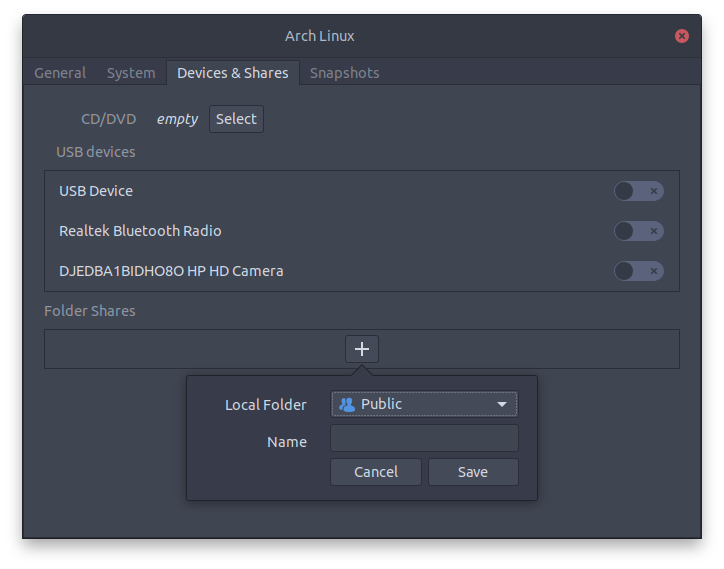
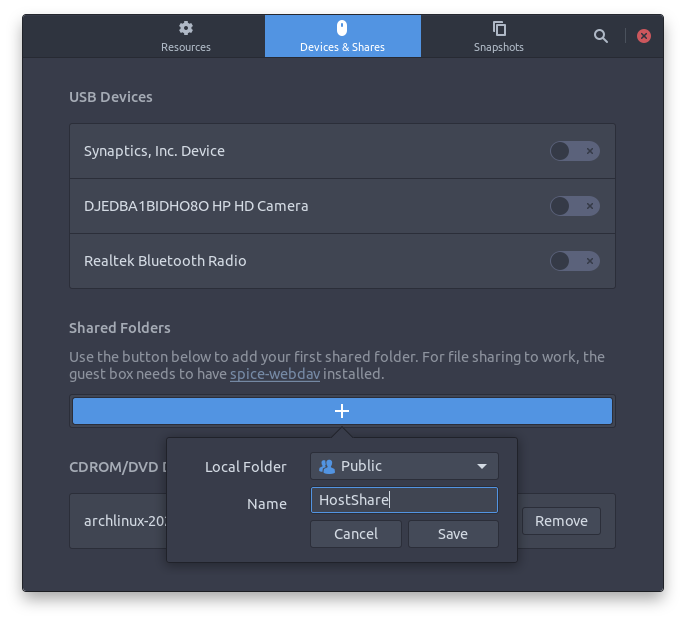
Updtae GNOME Boxes README (GNOME 42)

diff --git a/GNOME-BOXES-ARCH-GUEST.md b/GNOME-BOXES-ARCH-GUEST.md
@@ -2,39 +2,15 @@
 
 #### 1. Virtual Machine Settings
 
-Create a virtual machine in GNOME Boxes with the default values: 2 GiB of RAM and 21.5 GB of maximum disk space.
+Create a virtual machine in GNOME Boxes with default values (2 GiB of memory and 21.5 GB of disk space), and enable UEFI boot:
 
-#### 2. Enable UEFI Boot
+![](images/boxes-new.png)
 
-Before installing Arch Linux in the virtual machine, configure the machine to boot with UEFI.
+Install Arch Linux.
 
-Open the virtual machine properties. In the `System` tab, click on the `Edit XML` button:
+#### 2. Install Guest Tools
 
-![](images/boxes-editxml.png)
-
-Locate the `<os>` XML section:
-
-```xml
-  <os>
-    <type arch="x86_64" machine="pc-q35-6.2">hvm</type>
-    <boot dev="hd"/>
-    <bootmenu enable="yes"/>
-  </os>
-```
-
-Change the first line to:
-
-```xml
-  <os firmware="efi">
-```
-
-Then click on the `Apply` button.
-
-Restart the virtual machine in GNOME Boxes, it should now boot in UEFI mode. Proceed with arch Linux installation.
-
-#### 3. Install Guest Tools
-
-Install the guest tools in the guest system:
+After the Arch installation is complete, install the guest tools in the guest system:
 
 ```bash
 sudo pacman -S spice-vdagent spice-gtk
@@ -46,7 +22,7 @@ Restart the guest system.
 
 #### 4. Enable Shared Folders
 
-Ensure that the virtual machine is running in GNOME Boxes. Open virtual machine properties, select the `Devices & Shares` tab, and add a shared folder in the `Folder Shares` section:
+Ensure that the virtual machine is running in GNOME Boxes. Open the virtual machine preferences, select the `Devices & Shares` tab, and add a shared folder in the `Folder Shares` section:
 
 ![](images/boxes-addshare.png)
 
